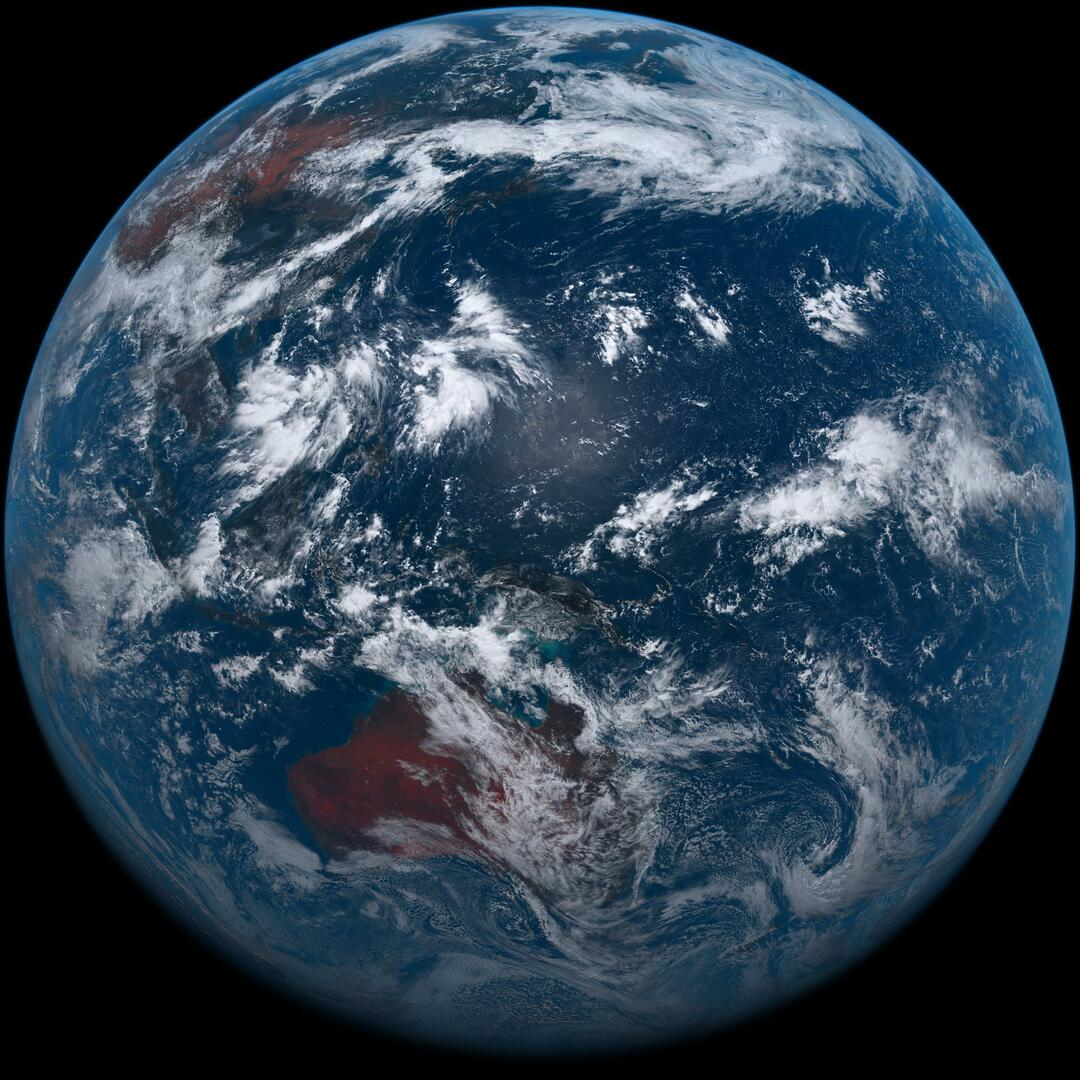
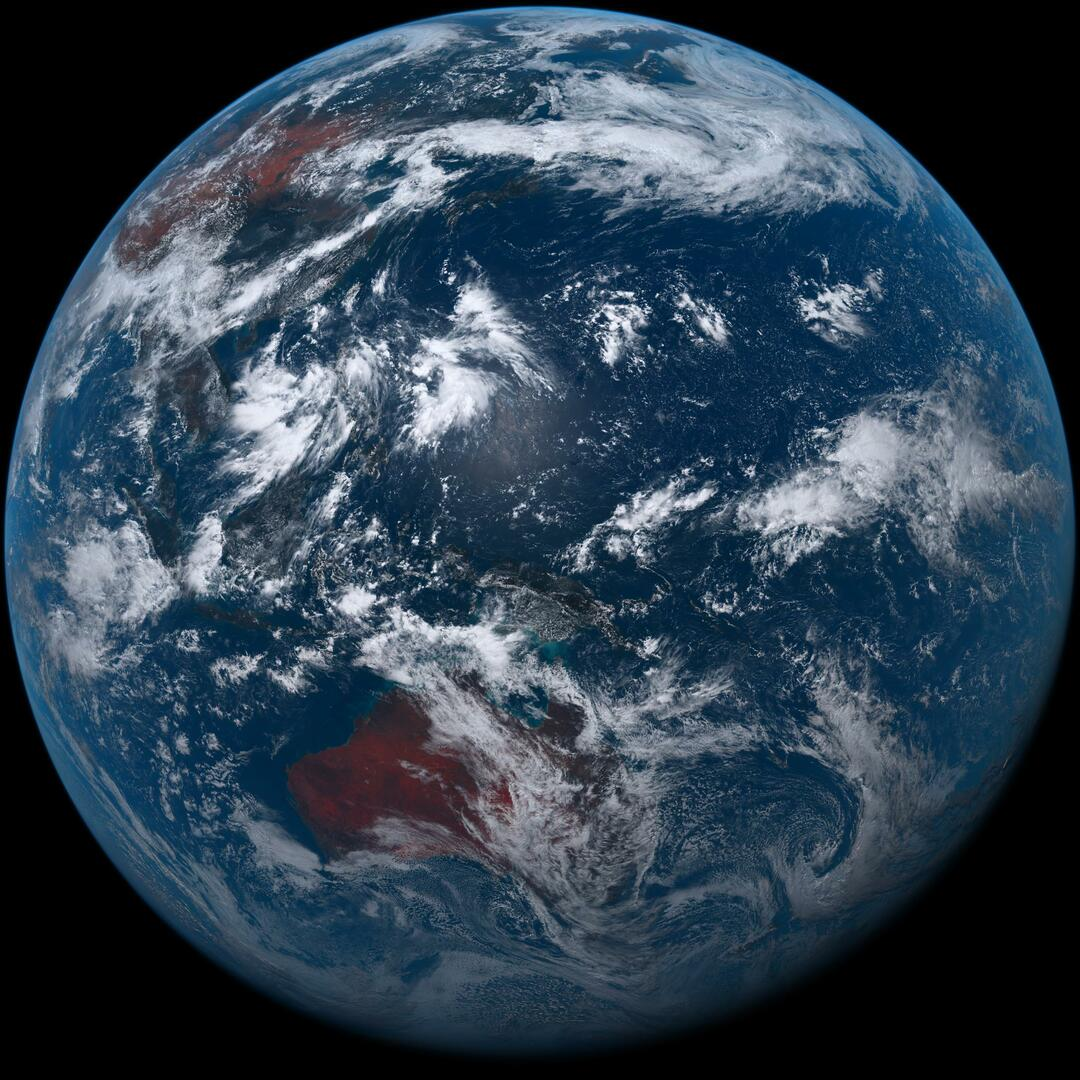
update images

diff --git a/index.html b/index.html
@@ -97,7 +97,7 @@
   </div>
 
   <div class="colophon">
-    <p>Last updated <date datetime="2022-06-29T02:45:42.874Z">2022-06-29T02:45:42.874Z</date>. Updates every hour.</p>
+    <p>Last updated <date datetime="2022-06-29T03:35:35.321Z">2022-06-29T03:35:35.321Z</date>. Updates every hour.</p>
     <p>View source on <a href="https://github.com/ungoldman/latest-earth">github</a>.</p>
   </div>
 
